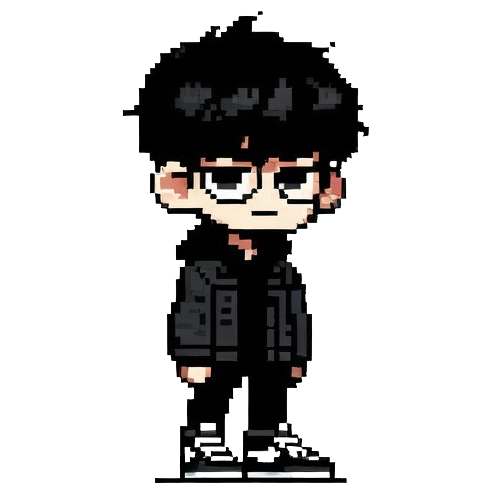
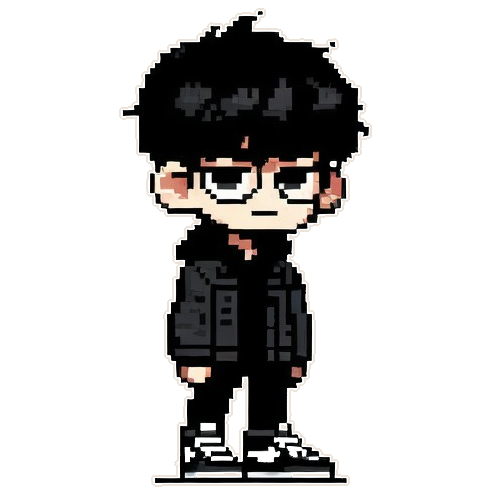
minor sound adjustment, Testing new character outline on John character.

diff --git a/dunwoody_disaster/views/creditScreen.py b/dunwoody_disaster/views/creditScreen.py
@@ -120,7 +120,7 @@ class Credits(QWidget):
         pygame.mixer.init()
         self.EndTheme = pygame.mixer.Sound(AUDIO["EndTheme"])
         self.EndTheme.set_volume(0.9)
-        self.EndTheme.play()  # Play the end theme sound indefinitely
+        self.EndTheme.play()  # Play the end theme sound once
 
     def keyPressEvent(self, event: QKeyEvent):
         if event.key() == Qt.Key.Key_Enter or event.key() == Qt.Key.Key_Return:

diff --git a/main.py b/main.py
@@ -68,7 +68,7 @@ class MainWindow(QMainWindow):
         self.Fire_Sound1.play(loops=-1)
         # Load and play wind sound
         self.Wind_Sound = pygame.mixer.Sound(AUDIO["Wind"])
-        self.Wind_Sound.set_volume(0.25)
+        self.Wind_Sound.set_volume(0.05)
         self.Wind_Sound.play(loops=-1)
 
     def startBtnClicked(self):
